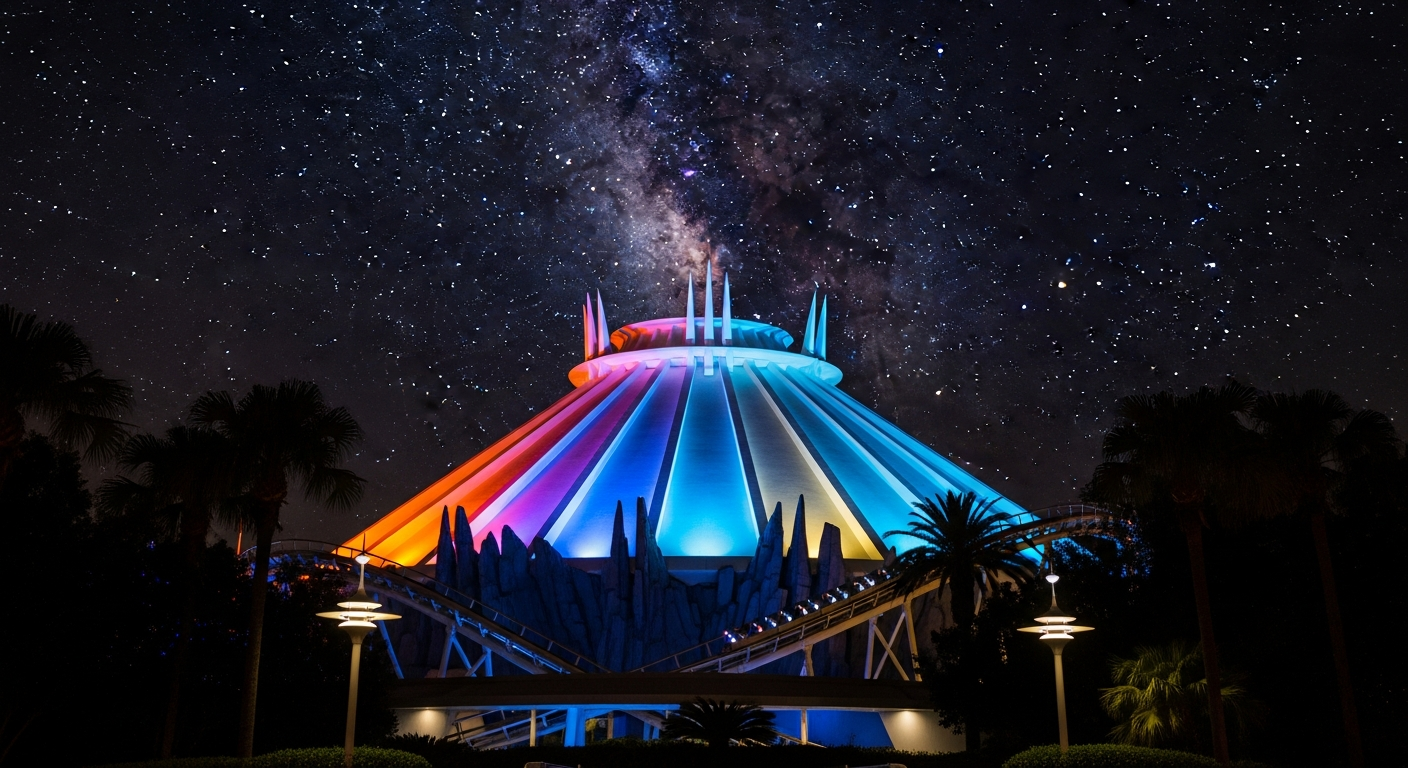
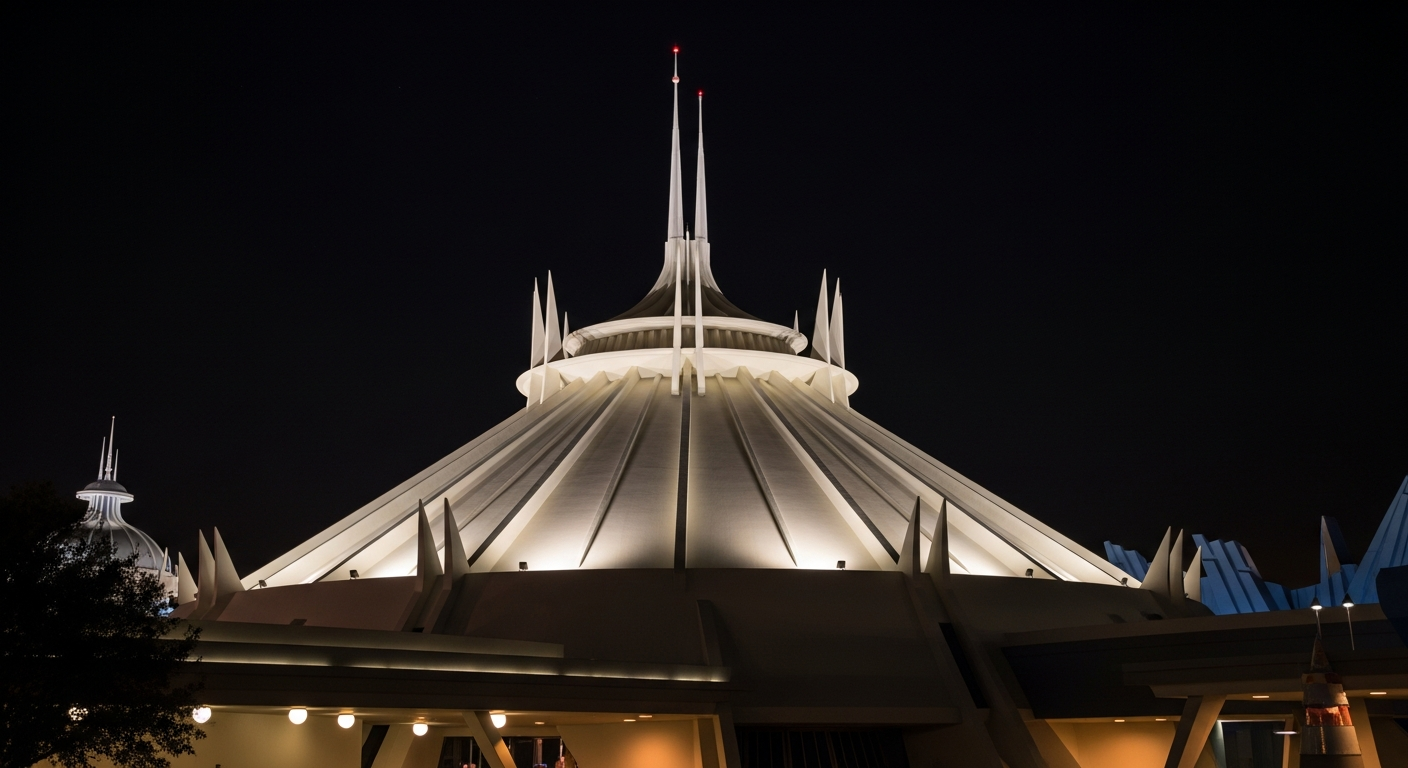
Fix park page image mappings and regenerate Magic Kingdom images with realistic prompts
Fixed park.html:
- Updated fallback image mappings to use correct filenames
- Bumped ride-images.js to v2 for cache busting
- Fixed default image path

Regenerated 5 Magic Kingdom images with photorealistic prompts:
- Space Mountain: Iconic white futuristic dome, night scene
- Big Thunder Mountain: Red rocky butte with mine train tracks
- Haunted Mansion: Gothic antebellum mansion, purple twilight
- Pirates of the Caribbean: Spanish colonial fortress facade
- Seven Dwarfs Mine Train: Mining mountain with gems visible

diff --git a/park.html b/park.html
@@ -1851,7 +1851,7 @@
 
   <script src="data/rides.js?v=2"></script>
   <script src="data/character-meal-data.js?v=2"></script>
-  <script src="scripts/ride-images.js?v=1"></script>
+  <script src="scripts/ride-images.js?v=2"></script>
   <script>
     // ============================================
     // PARK CONFIGURATION
@@ -2312,7 +2312,7 @@
     // ============================================
     // Use the shared rideImages from ride-images.js if available, otherwise use fallback
     const parkRideImages = typeof rideImages !== 'undefined' ? rideImages : {
-      'mk-space-mountain': '/images/rides/mk-space-mountain.jpg',
+      'mk-space-mountain': '/images/rides/space-mountain.jpg',
       'mk-big-thunder': '/images/rides/mk-big-thunder.jpg',
       'mk-haunted-mansion': '/images/rides/mk-haunted-mansion.jpg',
       'mk-pirates': '/images/rides/mk-pirates.jpg',
@@ -2325,23 +2325,23 @@
       'hs-slinky': '/images/rides/hs-slinky.jpg',
       'hs-tower-terror': '/images/rides/hs-tower-terror.jpg',
       'hs-smugglers-run': '/images/rides/hs-smugglers-run.jpg',
-      'ak-flight-passage': '/images/rides/ak-flight-passage.jpg',
+      'ak-flight-passage': '/images/rides/ak-avatar.jpg',
       'ak-everest': '/images/rides/ak-everest.jpg',
       'ak-safari': '/images/rides/ak-safari.jpg',
-      'usf-gringotts': '/images/rides/usf-gringotts.jpg',
-      'usf-mummy': '/images/rides/usf-mummy.jpg',
-      'usf-transformers': '/images/rides/usf-transformers.jpg',
-      'ioa-hagrid': '/images/rides/ioa-hagrid.jpg',
+      'usf-gringotts': '/images/rides/uo-gringotts.jpg',
+      'usf-mummy': '/images/rides/uo-mummy.jpg',
+      'usf-transformers': '/images/rides/uo-transformers.jpg',
+      'ioa-hagrid': '/images/rides/ioa-hagrids.jpg',
       'ioa-velocicoaster': '/images/rides/ioa-velocicoaster.jpg',
       'ioa-spiderman': '/images/rides/ioa-spiderman.jpg',
       'sw-mako': '/images/rides/sw-mako.jpg',
       'sw-kraken': '/images/rides/sw-kraken.jpg',
-      'sw-journey-atlantis': '/images/rides/sw-journey-atlantis.jpg',
+      'sw-journey-atlantis': '/images/rides/sw-atlantis.jpg',
       'll-dragon': '/images/rides/ll-dragon.jpg',
       'll-coastersaurus': '/images/rides/ll-coastersaurus.jpg'
     };
     
-    const parkDefaultImage = '/images/rides/mk-space-mountain.jpg';
+    const parkDefaultImage = '/images/rides/space-mountain.jpg';
 
     // ============================================
     // RENDER FUNCTIONS
